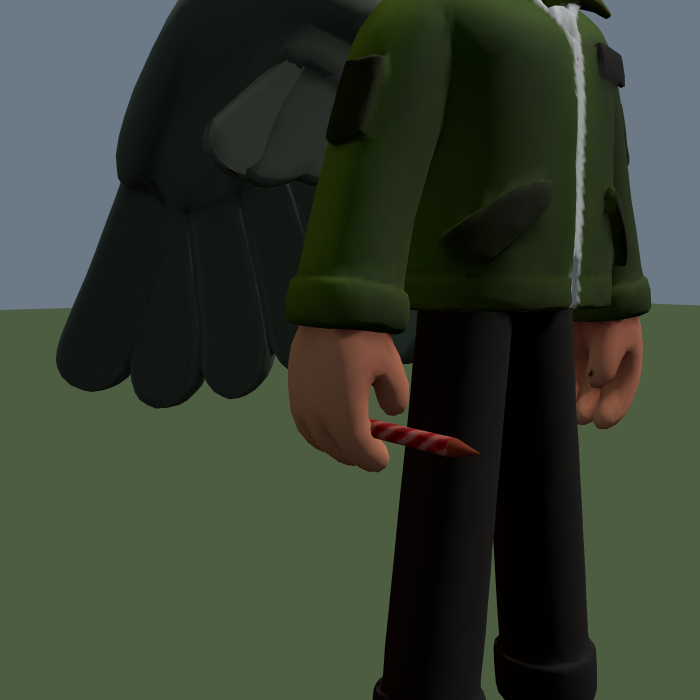
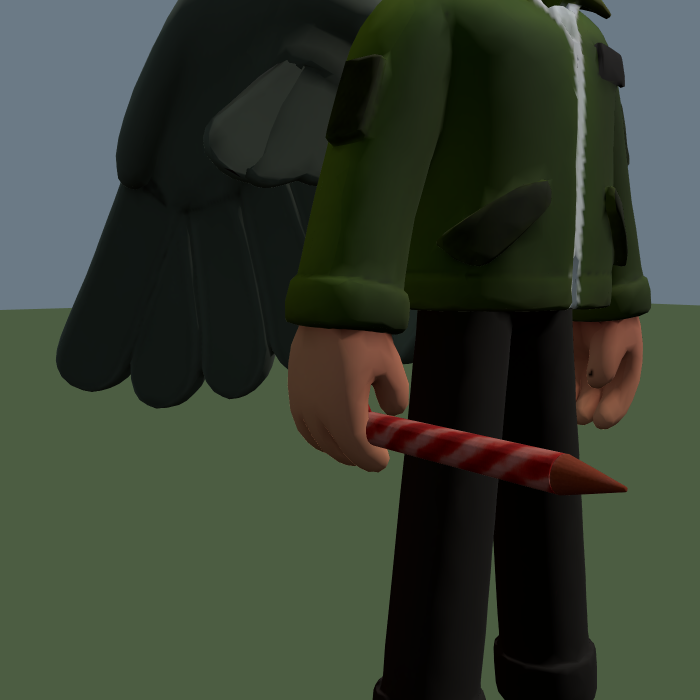
Size the firework to the hand it is actually in
A toothpick poking out of a closed fist. Nothing about the pose or the grip was
wrong - the object was too small for the hand holding it.

The built rocket's tube is 52 mm across and the built figure's fist is 52 mm
across, so in that hand it has always looked held. The scanned figure's hand is
another size entirely, and it was getting the same rocket. Measured from the
mesh, the scan's fist is 94 mm across - 1.8 times the hand the firework was
drawn for.

So handOfTheScan measures the fist as well as finding it. It already gathers
the vertices the arm joint owns and takes the lowest third as the fist, to put
the grip in the middle of the hand rather than off the fingertips; the span of
those same vertices across the arm - x and z, since the arm runs down y -
averaged over the two, is the grip's diameter. The held rocket is scaled by
that against the built fist, clamped to three, and only while the scan is the
body on screen: first person uses the built arms and keeps the built size.

One size in one hand, so it does not change as you look at it, and the reach
pose gains from it too - the rocket is now legible from the chase camera in
flight rather than a speck at the end of an arm.

Claude-Session: https://claude.ai/code/session_01AbPj1ecgWZX5NRERgq23EA

Changed region(s): [[0.51, 0.57, 0.9, 0.72]]

diff --git a/src/player/avatar.js b/src/player/avatar.js
@@ -14,6 +14,12 @@ import { ASSET_BASE } from '../core/paths.js';
 const ARM_LENGTH = 0.3;
 const ROCKET_LEN = 0.19;
 const ROCKET_GRIP = 0.03;
+/**
+ * How wide the built figure's fist is, and so how wide the built firework is:
+ * the tube is 52 mm across and so is the hand, which is why it reads as held.
+ * The scanned figure's hand is another size, and the rocket is scaled to it.
+ */
+const BUILT_FIST = 0.052;
 /** White, for lightening the slot colour before it tints a photograph. */
 const WHITE_TINT = new THREE.Color(0xffffff);
 /** Scratch, so measuring the scan's fist allocates nothing. */
@@ -1309,6 +1315,27 @@ export class Avatar {
     const grip = new THREE.Vector3();
     for (const [y, x, z] of fist) grip.add(_grip.set(x, y, z));
     grip.multiplyScalar(1 / fist.length);
+    /*
+      And how big that fist is, because the firework has to fill it.
+
+      The built rocket's tube is 52 mm across and the built figure's hand is 52
+      mm across: it fills that fist exactly, which is why it has always looked
+      held. The scanned figure's hand is a different size altogether, and the
+      same rocket in it read as a toothpick poking out of a closed fist -
+      nothing about the pose was wrong, the object was simply too small for the
+      hand it was in.
+
+      So measure the fist across, not along: the arm runs down y here, so the
+      span that matters is the x-z one. The mean of the two gives a grip
+      diameter that one long finger or a stray knuckle cannot throw.
+    */
+    const low = [Infinity, Infinity];
+    const high = [-Infinity, -Infinity];
+    for (const [, x, z] of fist) {
+      low[0] = Math.min(low[0], x); high[0] = Math.max(high[0], x);
+      low[1] = Math.min(low[1], z); high[1] = Math.max(high[1], z);
+    }
+    this.scanFist = ((high[0] - low[0]) + (high[1] - low[1])) / 2;
     // Into the shoulder's frame, where the rocket lives. At rest that joint
     // has no rotation, so this is a subtraction.
     const shoulder = SCAN_JOINTS.find((joint) => joint.name === 'armR').at;
@@ -1997,6 +2024,11 @@ export class Avatar {
       const holder = inScanHand ? this.scanBones.armR : this.armR.pivot;
       if (this.rocket.parent !== holder) holder.add(this.rocket);
       this.rocket.position.copy(inScanHand ? this.scanGrip : this.builtGrip);
+      // Sized to whichever hand it is in. BUILT_FIST is what the rocket was
+      // drawn to fill; the scan's own fist is measured in handOfTheScan.
+      const fits = inScanHand && this.scanFist
+        ? clamp(this.scanFist / BUILT_FIST, 1, 3) : 1;
+      if (this.rocket.scale.x !== fits) this.rocket.scale.setScalar(fits);
     }
     const useModel = !!this.model && settings.get('detailedPlayerModel') && !this.firstPerson;
     if (this.model) this.model.visible = useModel;

diff --git a/tools/model.html b/tools/model.html
@@ -249,6 +249,8 @@ const POSES = {
   'stand-back': { player: {}, camera: [0, 1.4, 3.6], look: [0, 1.0, 0] },
 };
 
+window.__fist = () => ({ fist: avatar.scanFist ?? null, scale: avatar.rocket?.scale.x ?? null });
+
 window.__pose = (name) => {
   const spec = POSES[name];
   const player = makePlayer(spec.player);
